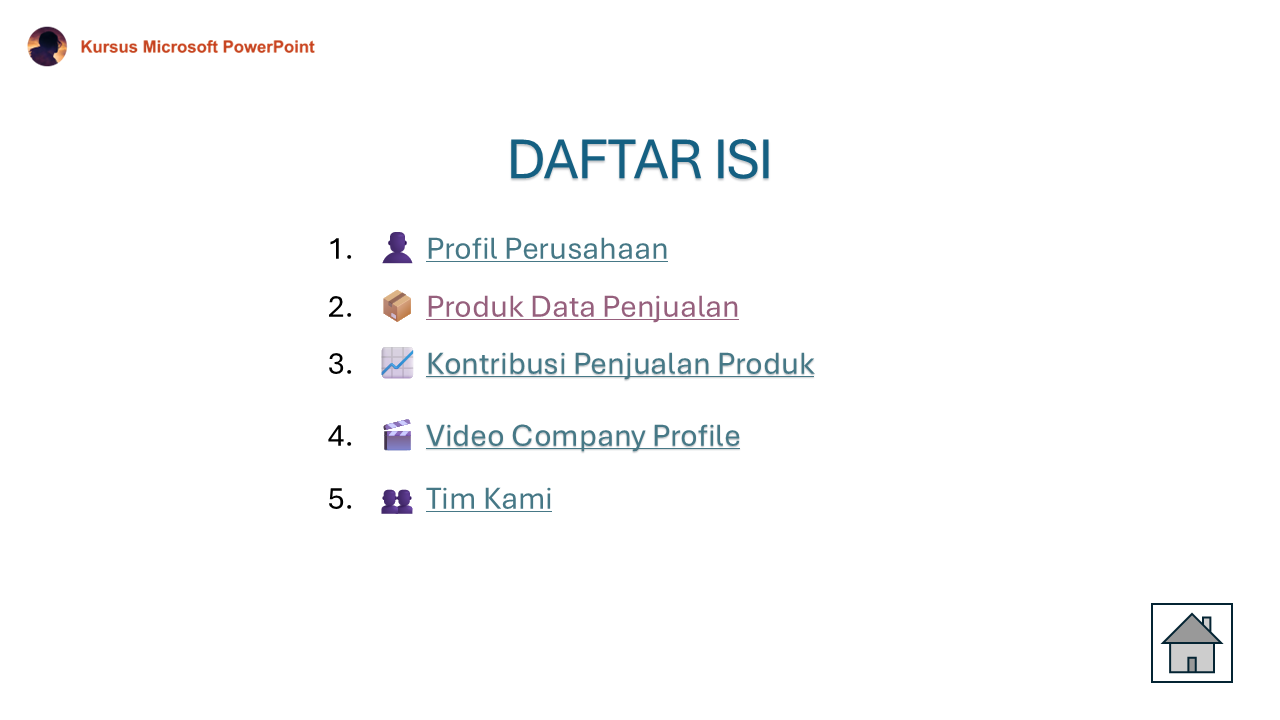
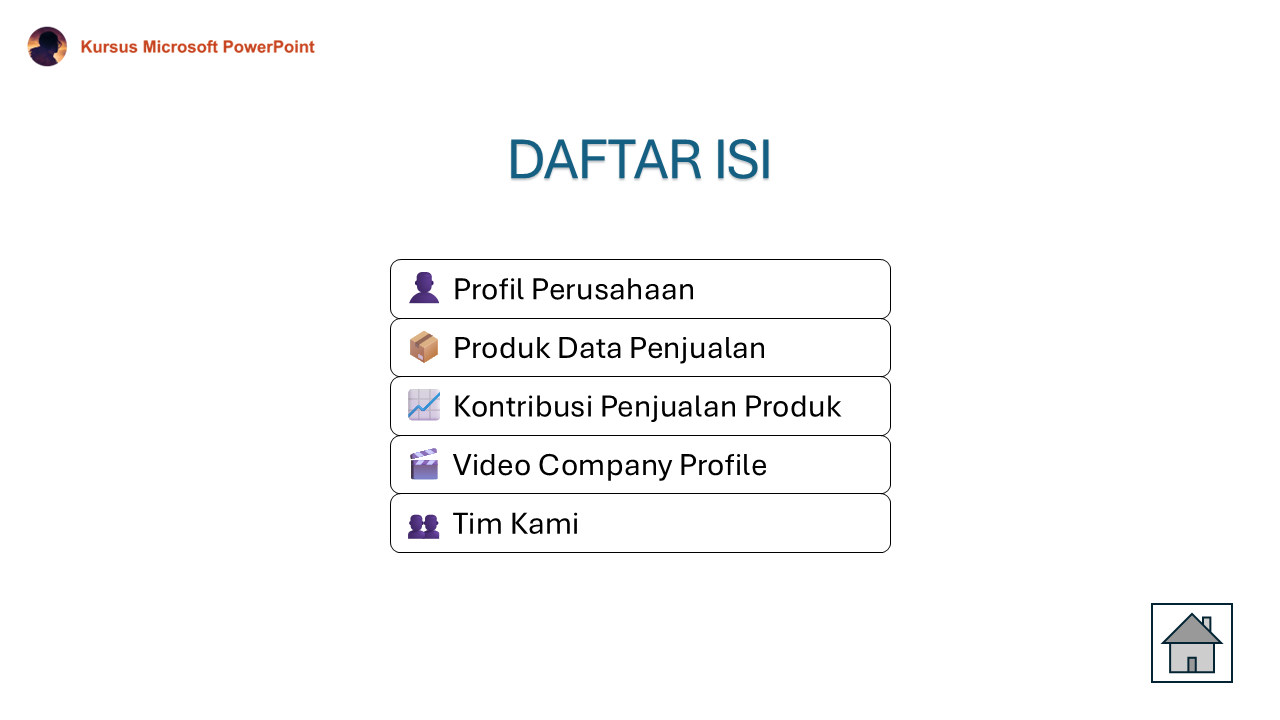
M

Changed region(s): [[0.25, 0.3056, 0.6562, 0.7639]]

diff --git a/materi-powerpoint.html b/materi-powerpoint.html
@@ -3444,7 +3444,8 @@
                             <div class="row">
                               <div class="col-md-6">
                                 Judul: "<strong>DAFTAR ISI</strong>"<br>
-                                Isi:
+                                Isi: <br>
+                                Gunakan <strong>Shape</strong> → <strong>Rectangle: Rounded Corners</strong>.
                                 <ol class="list-unstyled">
                                   <li>👤 Profil Perusahaan</li>
                                   <li>📦 Produk Data Penjualan</li>
